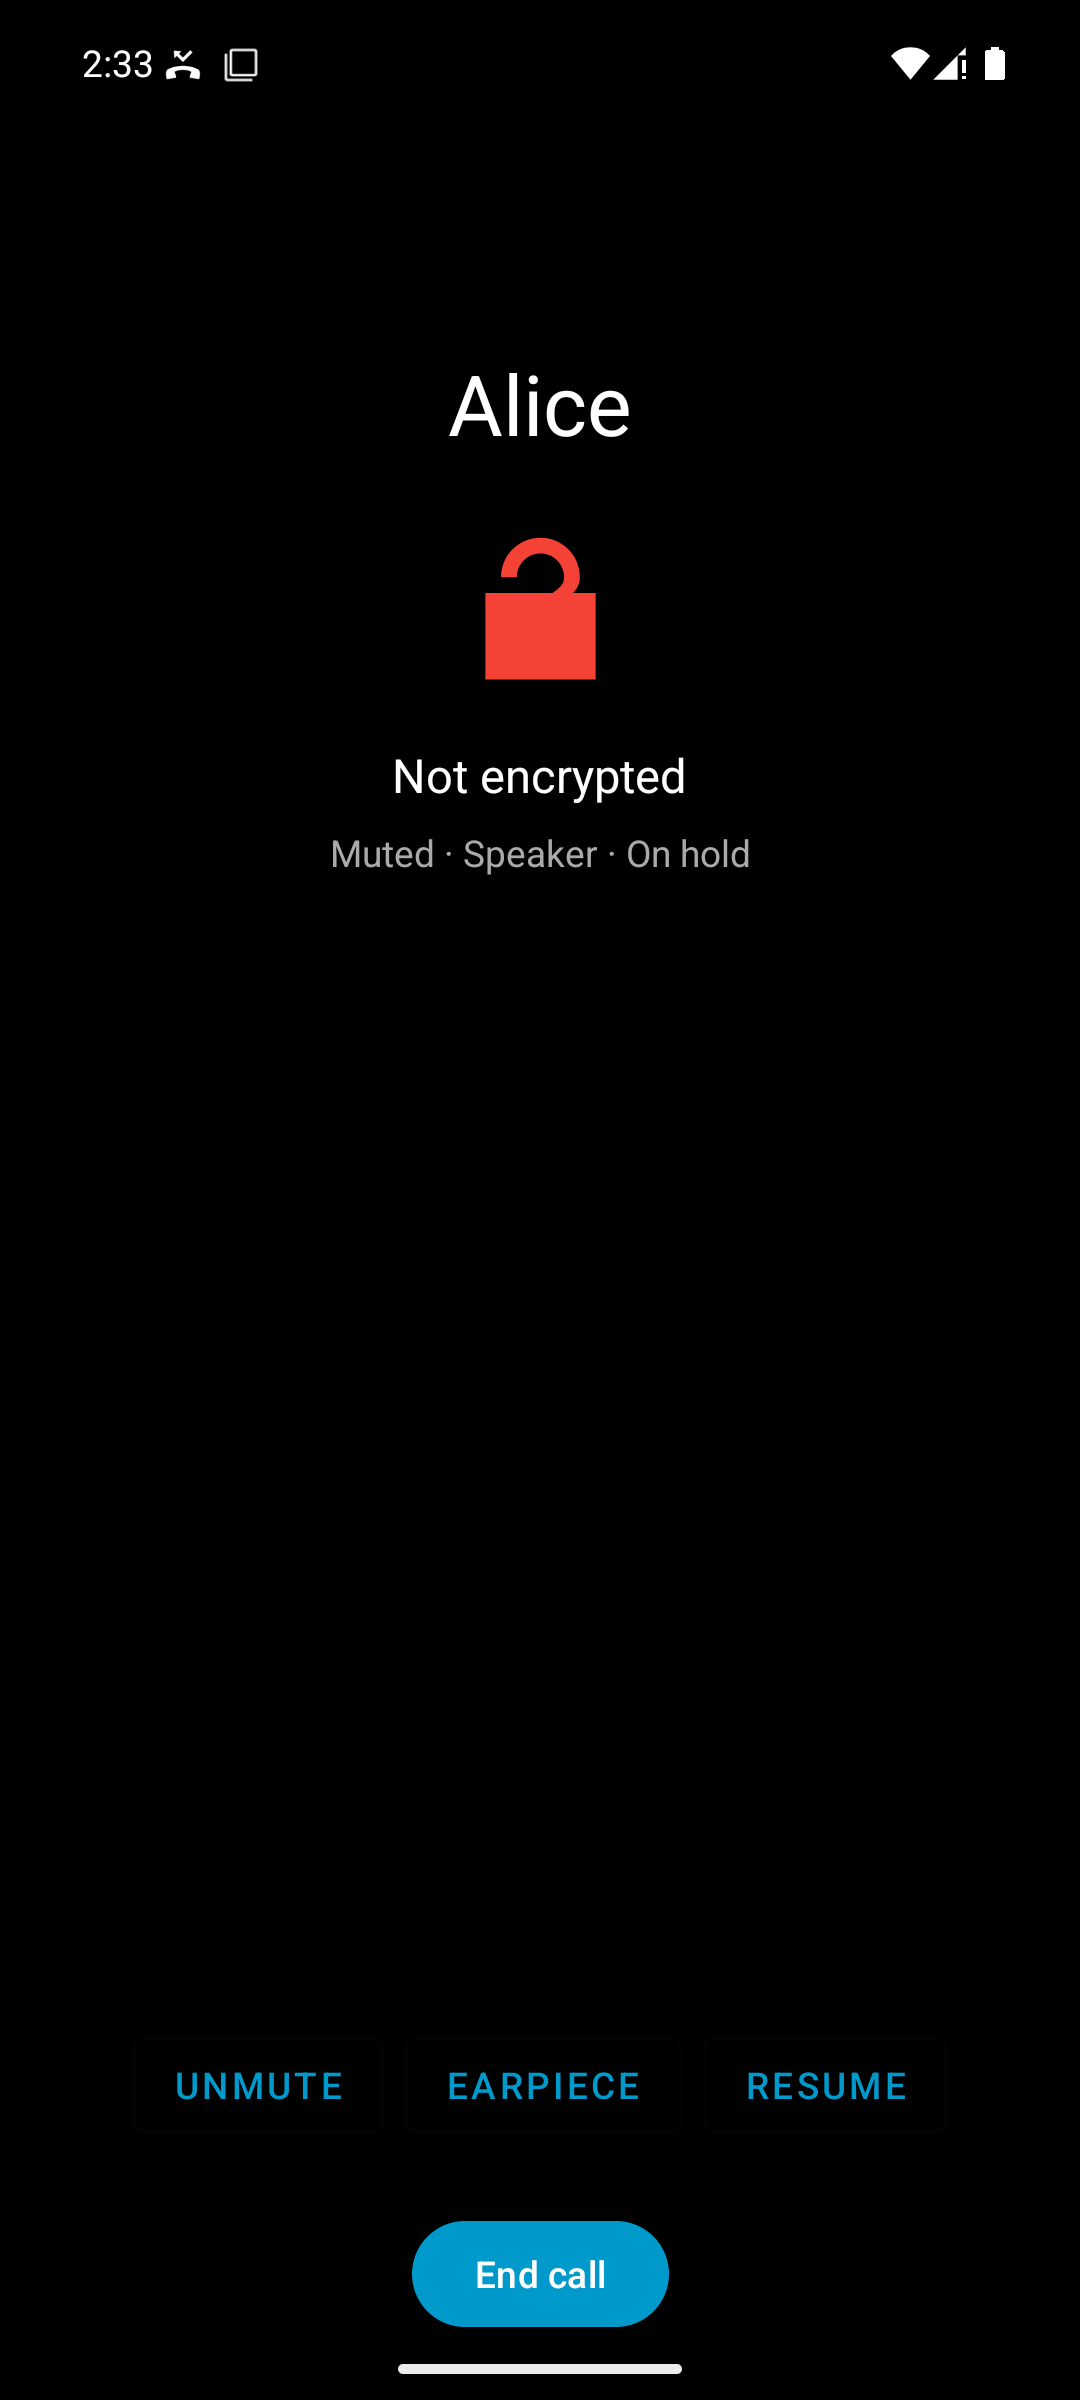
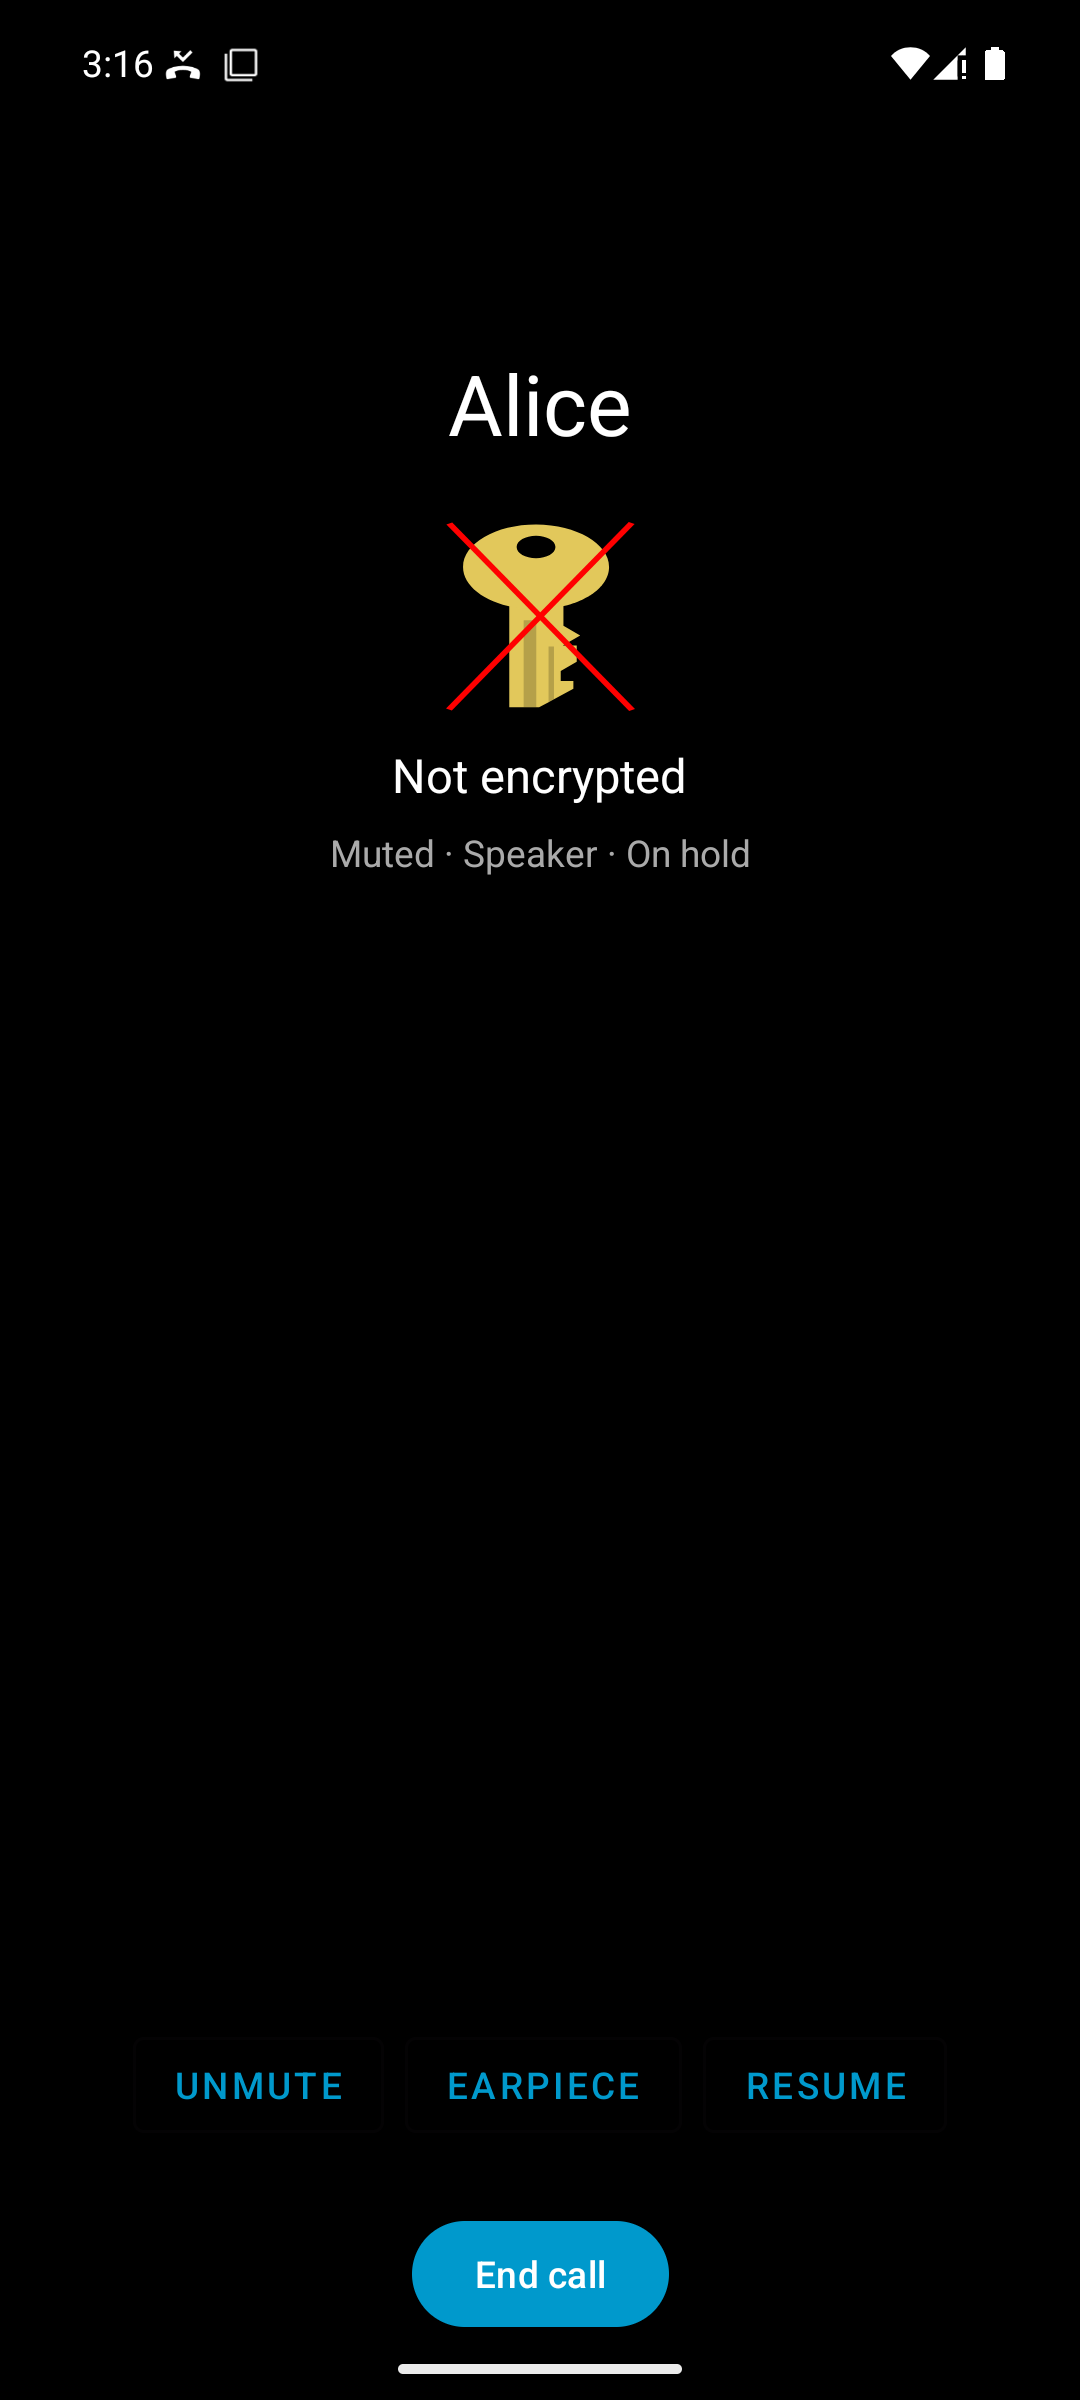
Faithful padlock VectorDrawables, GrapheneOS note, §5b re-key clarification.
Convert open/locked/key-error Android drawables from the vendored SVG paths
and colours; leave icons/ untouched. Document GrapheneOS as recommended OS
and that Case 8 must measure receiver PCM gap, not key-swap time.

Changed region(s): [[0.4278, 0.2188, 0.5806, 0.3125], [0.0917, 0.0, 0.1528, 0.0312]]

diff --git a/TEST_RESULTS.md b/TEST_RESULTS.md
@@ -44,7 +44,17 @@ Engine still starts on `VOICE_COMMUNICATION` and logs attach results at runtime.
 
 ### §5b re-key
 
-`MediaPipeline::rekey_srtp` keeps previous decrypt briefly. Host test `tests/rekey.rs`: **rekey_swap_us ≈ 6–12 µs** (≪ 100 ms budget).
+Media **keeps flowing** during §5b re-handshake: the call is not paused for the
+crypto round-trip. On successful re-key, `rekey_srtp` installs new send/receive
+SRTP contexts immediately and keeps the previous **receive** context
+(`decrypt_prev`) briefly so in-flight packets on the old keys still decrypt.
+Send switches to the new keys at the swap; there is no “hold media until
+handshake completes” gate.
+
+Host test `tests/rekey.rs` measures only the **key-swap** duration
+(**rekey_swap_us ≈ 6–12 µs**). That is not the audible gap. **Step 5 Case 8**
+must measure the gap in **decoded PCM at the receiver** across the re-key
+(target under ~100 ms), not the key-swap timer.
 
 ### §16 disguise
 

diff --git a/README.md b/README.md
@@ -21,6 +21,13 @@ Implementation runs on two Android emulators with contact-based dialing and encr
 
 See [TEST_RESULTS.md](TEST_RESULTS.md) for the latest run matrix and blockers.
 
+## Recommended OS
+
+[GrapheneOS](https://grapheneos.org/) is the preferred Android OS for running Saga.
+It provides a hardened security model relative to typical Android builds, and it
+includes a duress PIN/password feature. Saga does not require GrapheneOS, but it
+is the recommended environment when choosing a device OS.
+
 ## Testing approach (summary)
 
 E2E uses **two AVDs** (`emulator-5554` = alice, `emulator-5556` = bob), `adb`, and the scripts under `testing/e2e/`. Calls are placed by **contact display name** (`bob`, `alice`, `thor`), not raw peer labels.

diff --git a/android/README.md b/android/README.md
@@ -42,7 +42,12 @@ E2E (two emulators, local relay recommended): [`../testing/e2e/README.md`](../te
 
 ## Section 13 icons
 
-`app/src/main/res/drawable/ic_saga_*.xml` — simplified from [`../icons/`](../icons/) (AGPL).
+`app/src/main/res/drawable/ic_saga_padlock_open.xml`, `ic_saga_padlock_locked.xml`, and
+`ic_saga_key_error.xml` are faithful VectorDrawable conversions of
+[`../icons/open.svg`](../icons/open.svg), [`locked.svg`](../icons/locked.svg), and
+[`key-error.svg`](../icons/key-error.svg) (same paths, shapes, and colours; AGPL).
+`ic_saga_padlock_downgraded.xml` is Android-only (no source SVG under `icons/`).
+Do not edit files under [`../icons/`](../icons/).
 
 ## Audio cues
 
